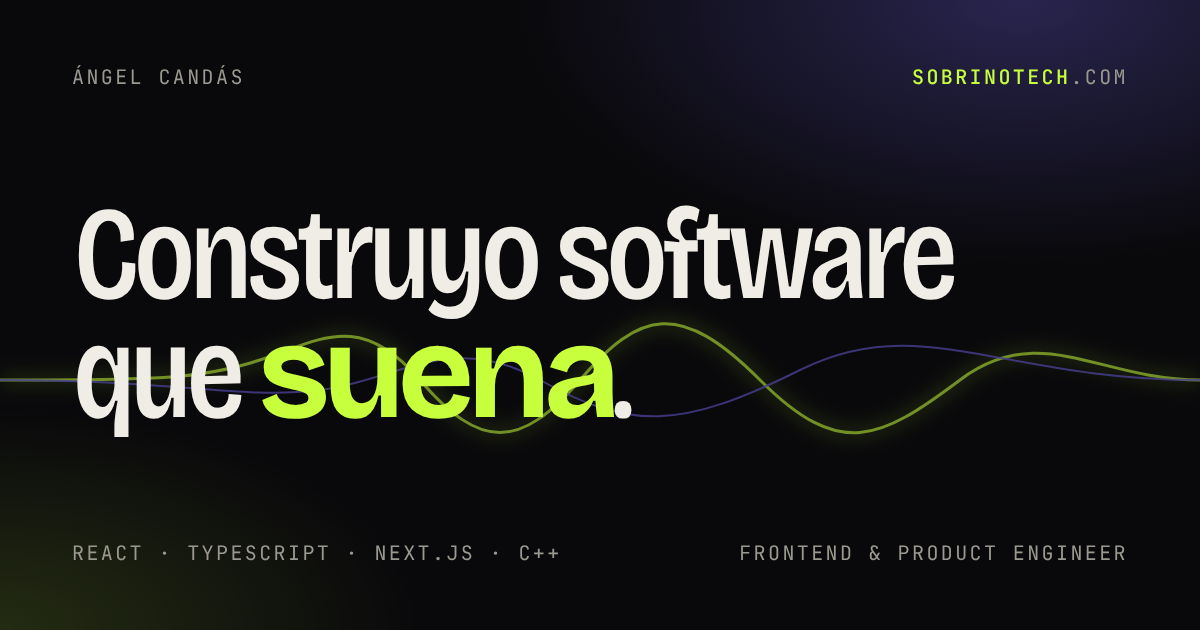
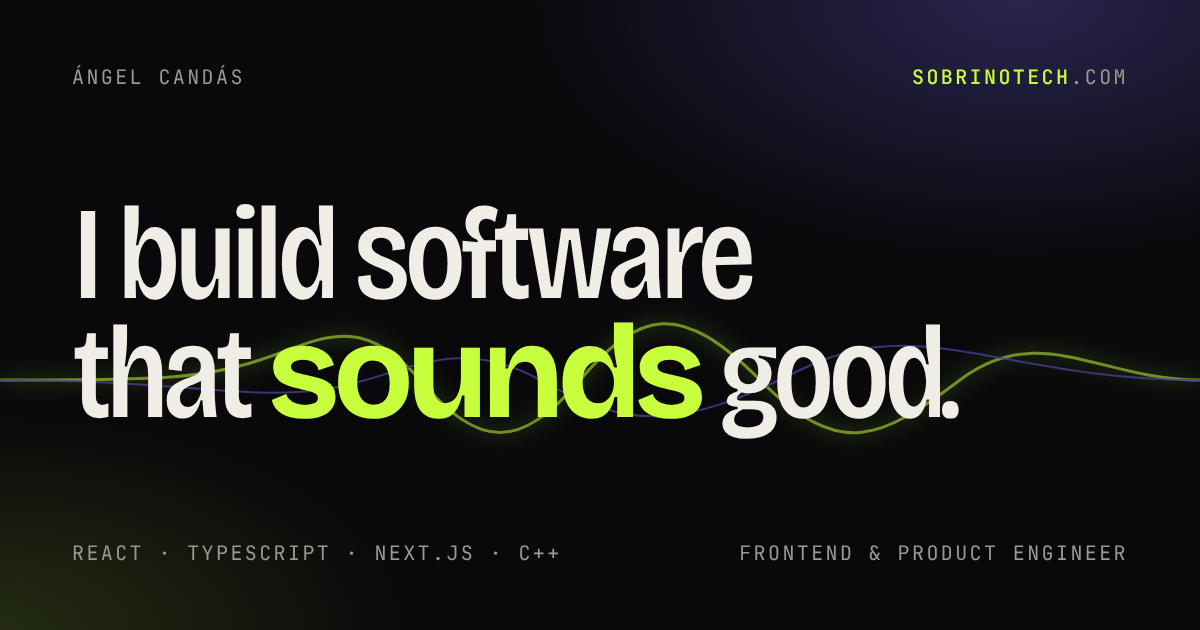
Make English the default language and add contact emails (#2)
- English at /, Spanish at /es/ (old /en/ URLs redirect to /)
- hello@sobrinotech.com on the English page, hola@sobrinotech.com on the Spanish one
- Open Graph image in English

Claude-Session: https://claude.ai/code/session_012tMnU3Tm6gNRQDgYUd2chM

Changed region(s): [[0.0617, 0.3016, 0.8017, 0.5127], [0.0617, 0.5127, 0.8017, 0.6937]]

diff --git a/src/i18n/content.ts b/src/i18n/content.ts
@@ -10,8 +10,8 @@ export const site = {
   url: 'https://sobrinotech.com',
   github: 'https://github.com/angelcandas',
   linkedin: 'https://www.linkedin.com/in/angelcandas/',
-  // Leave empty to hide the email button. Example: 'hola@sobrinotech.com'
-  email: '',
+  // Contact address per language (both forward to the same inbox). Leave empty to hide the button.
+  email: { en: 'hello@sobrinotech.com', es: 'hola@sobrinotech.com' } as Record<'en' | 'es', string>,
   location: 'Valencia, España',
   timezone: 'Europe/Madrid',
 };
@@ -66,7 +66,7 @@ const es = {
     description:
       'Portfolio de Ángel Candás Sobrino: ingeniero frontend y de producto con más de 10 años en React y TypeScript, líder técnico y autor de MicFX, ¿Qué como? y otros proyectos.',
   },
-  nav: { work: 'Trabajo', about: 'Perfil', contact: 'Contacto', switch: 'EN', switchHref: '/en/', switchLabel: 'Read in English' },
+  nav: { work: 'Trabajo', about: 'Perfil', contact: 'Contacto', switch: 'EN', switchHref: '/', switchLabel: 'Read in English' },
   skip: 'Saltar al contenido',
   hero: {
     kicker: 'Frontend & Product Engineer · Tech Lead',
@@ -176,7 +176,7 @@ const en: Copy = {
     description:
       'Portfolio of Ángel Candás Sobrino: frontend and product engineer with 10+ years in React and TypeScript, tech lead, and maker of MicFX, ¿Qué como? and more.',
   },
-  nav: { work: 'Work', about: 'About', contact: 'Contact', switch: 'ES', switchHref: '/', switchLabel: 'Leer en español' },
+  nav: { work: 'Work', about: 'About', contact: 'Contact', switch: 'ES', switchHref: '/es/', switchLabel: 'Leer en español' },
   skip: 'Skip to content',
   hero: {
     kicker: 'Frontend & Product Engineer · Tech Lead',

diff --git a/tools/og.html b/tools/og.html
@@ -12,6 +12,6 @@ svg{position:absolute;left:0;top:300px;width:1200px;height:160px;opacity:.55;z-i
 </style></head><body>
 <div class="top"><span>Ángel Candás</span><span><b>sobrinotech</b>.com</span></div>
 <svg viewBox="0 0 1200 160"><path d="M0 80 C 150 80, 200 80, 260 60 S 360 10, 420 80 S 520 150, 580 80 S 680 0, 760 80 S 880 140, 960 80 S 1100 80, 1200 80" fill="none" stroke="#c8ff3d" stroke-width="3" style="filter:drop-shadow(0 0 10px #c8ff3d)"/><path d="M0 80 C 180 80, 240 100, 320 90 S 450 30, 540 80 S 680 130, 800 70 S 1000 80, 1200 80" fill="none" stroke="#7c6bff" stroke-width="2" opacity=".8"/></svg>
-<h1>Construyo software<br>que <em>suena</em>.</h1>
+<h1>I build software<br>that <em>sounds</em> good.</h1>
 <div class="top"><span>React · TypeScript · Next.js · C++</span><span>Frontend &amp; Product Engineer</span></div>
 </body></html>

diff --git a/README.md b/README.md
@@ -1,7 +1,7 @@
 # sobrinotech.com
 
 Portfolio de Angel Candas. Astro, CSS a mano y unas 200 líneas de TypeScript para el movimiento
-(osciloscopio en canvas, revelado al hacer scroll, botones magnéticos). Bilingüe: `/` en español y `/en/` en inglés.
+(osciloscopio en canvas, revelado al hacer scroll, botones magnéticos). Bilingüe: `/` en inglés (público internacional) y `/es/` en español.
 
 - Contenido: `src/i18n/content.ts`
 - Componentes: `src/components/`

diff --git a/DEPLOY.md b/DEPLOY.md
@@ -43,4 +43,4 @@ npm test           # pruebas sobre dist/ (necesita `npx playwright install chrom
 ```
 
 Todo el texto, enlaces y proyectos están en `src/i18n/content.ts` (español e inglés).
-Para mostrar un correo de contacto, rellena `site.email` en ese archivo.
+Los correos de contacto (`hello@` en inglés, `hola@` en español) están en `site.email` en ese archivo. Ambos deben existir en Email Routing de Cloudflare.
